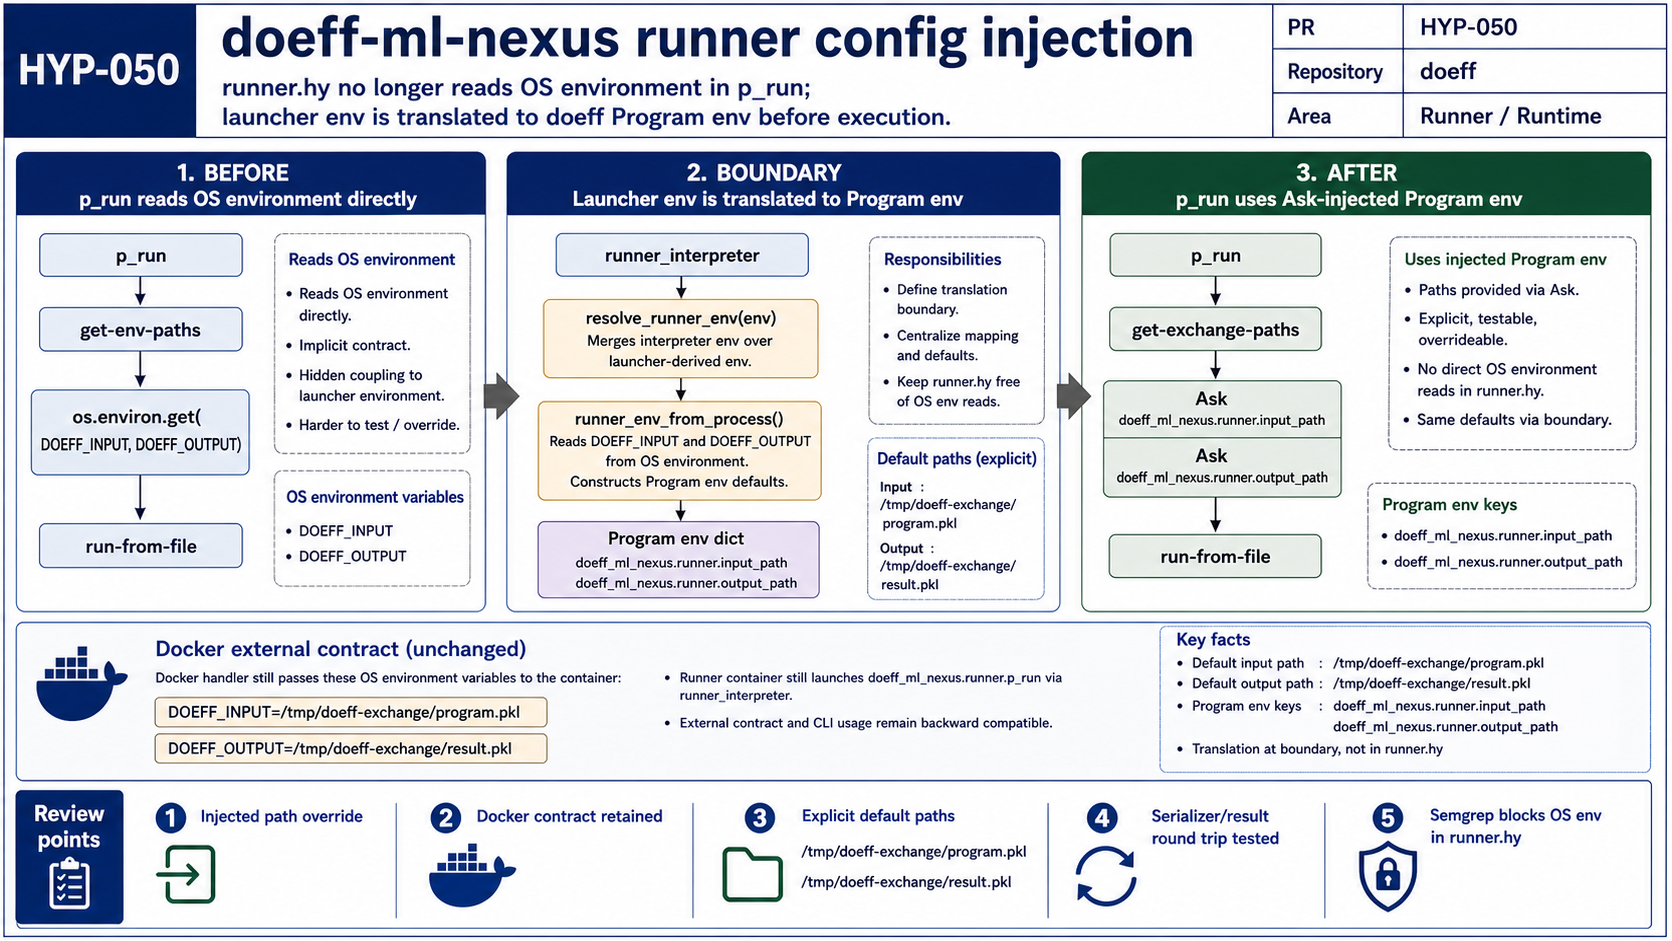
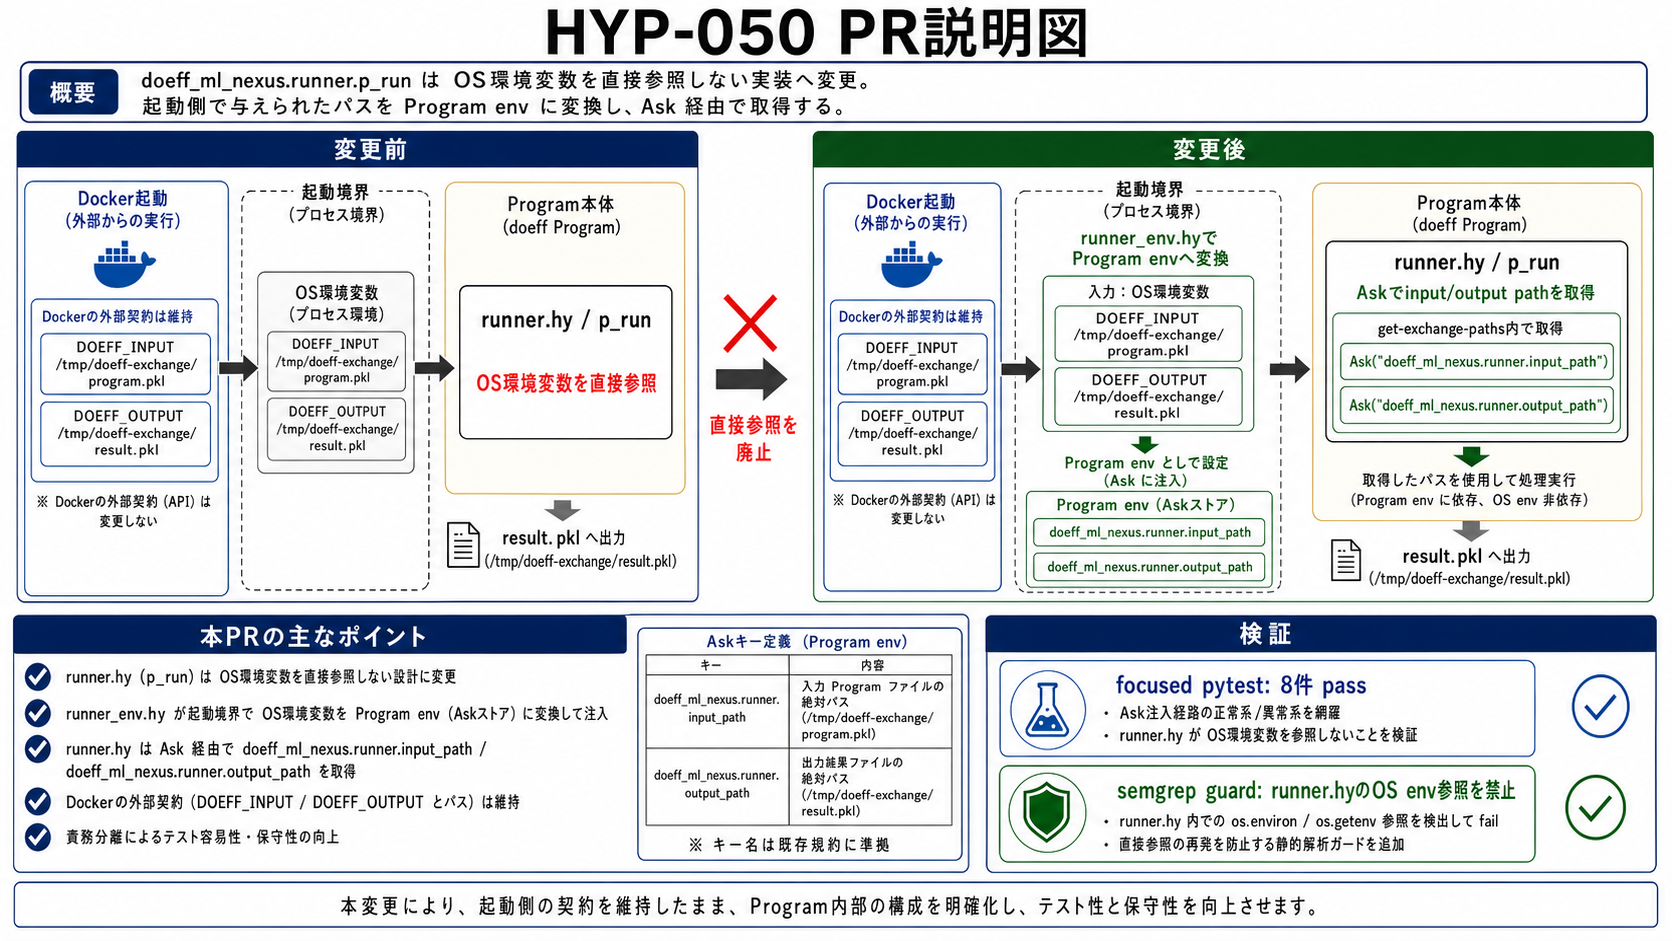
Address HYP-050 review feedback

diff --git a/packages/doeff-ml-nexus/tests/test_runner.py b/packages/doeff-ml-nexus/tests/test_runner.py
@@ -4,7 +4,7 @@ import hy  # noqa: F401
 import pytest
 from pathlib import Path
 
-from doeff import Pure
+from doeff import Pure, run
 from doeff_ml_nexus.runner import p_run, runner_interpreter
 from doeff_ml_nexus.runner_env import (
     DEFAULT_RUNNER_INPUT_PATH,
@@ -12,6 +12,7 @@ from doeff_ml_nexus.runner_env import (
     RUNNER_INPUT_PATH_KEY,
     RUNNER_OUTPUT_PATH_KEY,
     default_runner_env,
+    resolve_runner_env,
     runner_env_from_process,
 )
 from doeff_ml_nexus.serializer import default_serializer
@@ -68,11 +69,36 @@ def test_runner_env_defaults_are_explicit_injected_config(monkeypatch):
     monkeypatch.delenv("DOEFF_INPUT", raising=False)
     monkeypatch.delenv("DOEFF_OUTPUT", raising=False)
 
-    assert default_runner_env() == {
+    expected_defaults = {
         RUNNER_INPUT_PATH_KEY: DEFAULT_RUNNER_INPUT_PATH,
         RUNNER_OUTPUT_PATH_KEY: DEFAULT_RUNNER_OUTPUT_PATH,
     }
-    assert runner_env_from_process() == default_runner_env()
+
+    assert run(default_runner_env()) == expected_defaults
+    assert run(runner_env_from_process()) == expected_defaults
+
+
+def test_resolve_runner_env_accepts_program_env(monkeypatch, tmp_path):
+    monkeypatch.setenv("DOEFF_INPUT", str(tmp_path / "process-program.pkl"))
+    monkeypatch.setenv("DOEFF_OUTPUT", str(tmp_path / "process-result.pkl"))
+    injected_input = tmp_path / "program-env-program.pkl"
+    injected_output = tmp_path / "program-env-result.pkl"
+
+    resolved = run(
+        resolve_runner_env(
+            Pure(
+                {
+                    RUNNER_INPUT_PATH_KEY: str(injected_input),
+                    RUNNER_OUTPUT_PATH_KEY: str(injected_output),
+                }
+            )
+        )
+    )
+
+    assert resolved == {
+        RUNNER_INPUT_PATH_KEY: str(injected_input),
+        RUNNER_OUTPUT_PATH_KEY: str(injected_output),
+    }
 
 
 def test_docker_handler_preserves_process_env_file_exchange_contract():